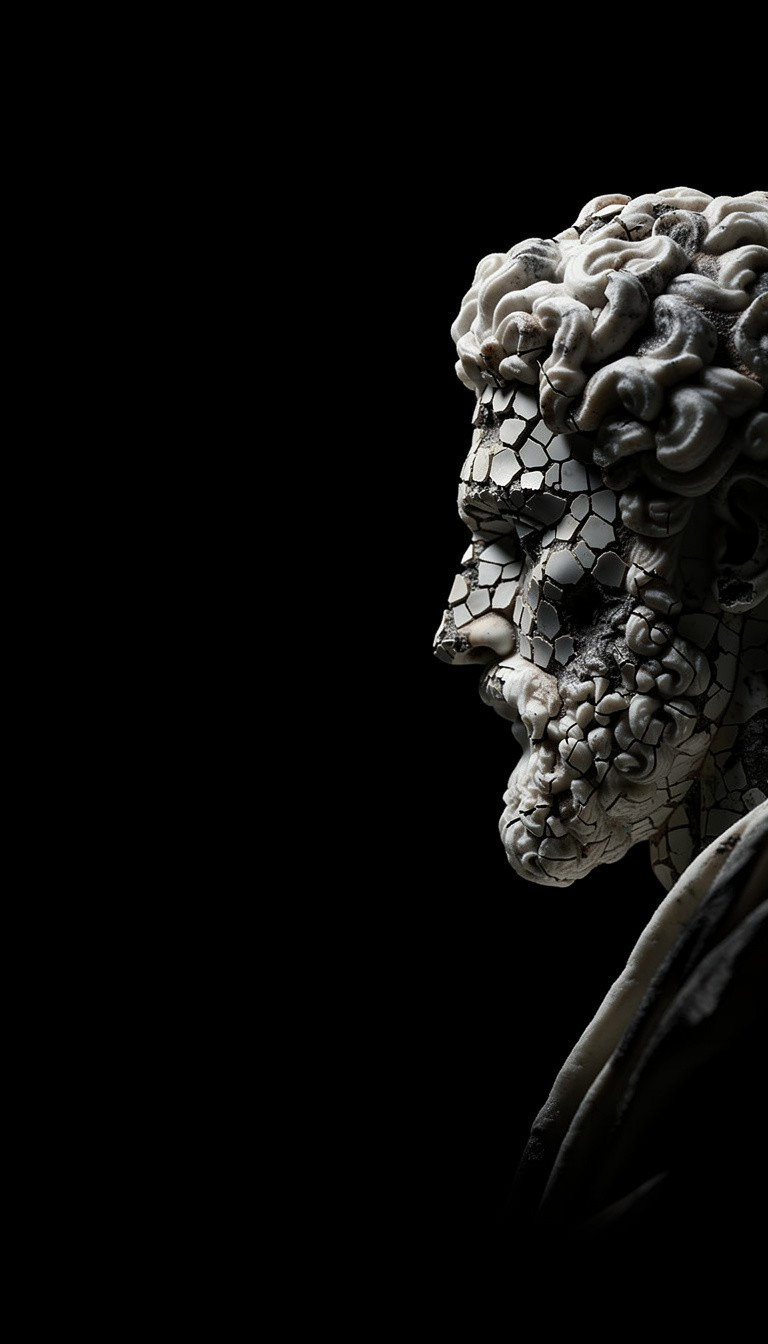
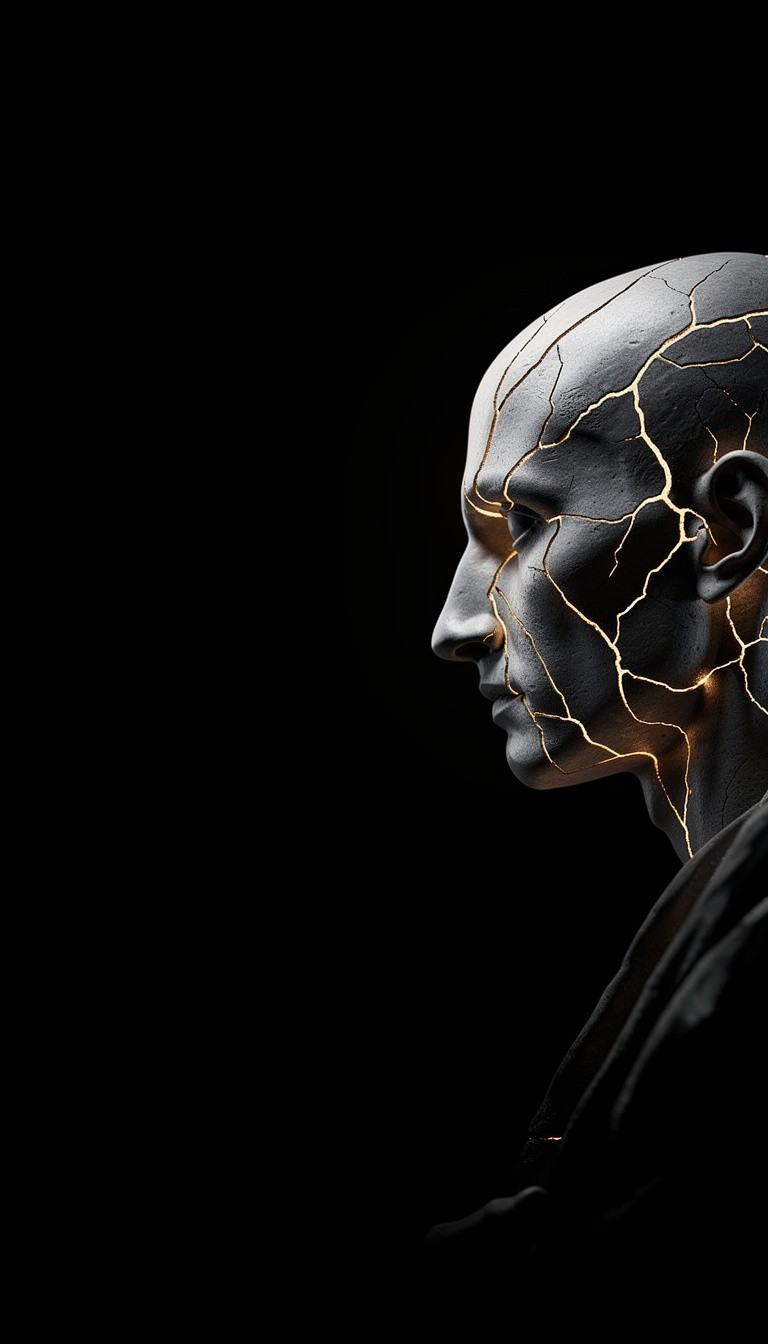
Restore both confirmed-good psychology backgrounds in rotation: gold-crack (psychology1, the FLUX.2-edited v6 version) and sparkle-dust (psychology2, the original pre-fix version). Human explicitly wants both, not just one - reverses the earlier single-image consolidation.

Changed region(s): [[0.5625, 0.125, 1.0, 0.875], [0.625, 0.875, 0.6875, 0.9062]]

diff --git a/composite_card.py b/composite_card.py
@@ -34,8 +34,14 @@ def get_background(attribution, row_id):
     key = attribution.strip().lower()
     if key in IMAGE_MAP:
         return IMAGE_MAP[key]
-    # Psychology facts: single fixed background (psychology2, the corrected one)
-    return "psychology2"
+    # Psychology facts: alternate between the two confirmed-good images
+    # (both approved directly by the human - gold-crack "psychology1" and
+    # sparkle-dust "psychology2")
+    try:
+        n = int(row_id)
+    except ValueError:
+        n = 0
+    return "psychology1" if n % 2 == 0 else "psychology2"
 
 if __name__ == "__main__":
     from PIL import Image, ImageDraw, ImageFont
